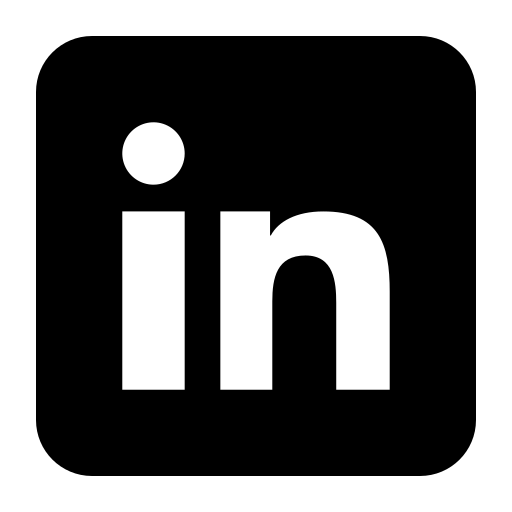
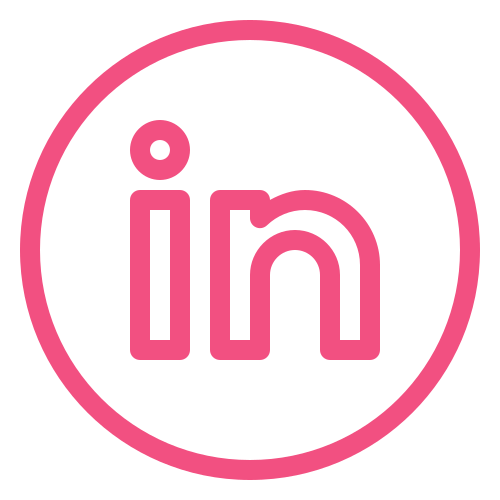
alterações no home

diff --git a/src/components/Home.module.css b/src/components/Home.module.css
@@ -3,26 +3,46 @@
 .main {
   display: flex;
   flex-wrap: wrap;
+  flex-direction: column;
+  height: 100vh;
+  overflow: hidden;
 }
 
 .homeDiv {
   display: flex;
-  flex-wrap: wrap;
-  text-align: center;
-  justify-content: space-around;
+  flex-direction: column;
   font-family: 'Sofia';
   background-color: rgba(0, 0, 0, 0.863);
   align-items: center;
-  height: 100vh;
-  width: 100%;
+  justify-content: center; /* Centralizar verticalmente */
+  flex: 1;
 }
 
-.txt {
+.img {
   display: flex;
   flex-wrap: wrap;
   text-align: center;
-  justify-content: space-around;
+  justify-content: center; /* Garantir que a imagem fique centralizada */
   align-items: center;
+  height: auto; /* Alterado para auto */
+  width: 20%; /* Ajuste para um valor fixo */
+  border-radius: 50%;
+  animation: moveUpDown 2s ease-in-out infinite;
+}
+
+@keyframes moveUpDown {
+  0% {
+    transform: translateY(0); /* Início do movimento */
+  }
+  50% {
+    transform: translateY(-10px); /* Meio da animação (subindo) */
+  }
+  100% {
+    transform: translateY(0); /* Fim da animação (retorna ao normal) */
+  }
+}
+
+.txt {
   font-size: 25px;
   background: -webkit-linear-gradient(left, #97d9d9, #ec55b7);
   background: -moz-linear-gradient(left, #97d9d9, #ec55b7);
@@ -31,46 +51,14 @@
   background: linear-gradient(to right, #97d9d9, #ec55b7);
   border-radius: 20px;
   padding: 5px;
+  margin-top: 20px; /* Espaçamento entre a imagem e o texto */
+  text-shadow: 0 0 10px #fff, 0 0 20px #ff00ff, 0 0 30px #ff00ff, 0 0 40px #ff00ff, 0 0 50px #ff00ff, 0 0 75px #ff00ff;
 }
 
-.img {
+.footer {
   display: flex;
   flex-wrap: wrap;
   text-align: center;
-  justify-content: space-around;
+  justify-content: center; /* Garantir que a imagem fique centralizada */
   align-items: center;
-  height: 47%;
-  width: 20%;
-  margin: 10%;
-  border-radius: 20px;
-}
-
-.div{
-  display: flex;
-  flex-wrap: wrap;
-}
-
-.imgLink {
-  height: 50px;
-  width: 50px;
-  margin: 10px;
-  border-radius: 100px;
-}
-
-.git{
-  display: flex;
-  flex-wrap: wrap;
-  justify-content: center;
-  align-items: center;
-  cursor: pointer;
-  width: 12vh;
-}
-
-.linkedin {
-  display: flex;
-  flex-wrap: wrap;
-  justify-content: center;
-  align-items: center;
-  cursor: pointer;
-  width: 11vh;
 }

diff --git a/src/pages/index.js b/src/pages/index.js
@@ -1,28 +1,26 @@
 import React from 'react';
 import Header from '../components/Header';
-import laptop from '../images/laptop.gif';
 import Image from 'next/image';
 import styleHome from '../components/Home.module.css';
-import caroline from '../images/caroline';
-// import Swal from 'sweetalert2';
 import Bot from '@/components/Bot';
 import Contact from '@/components/Contact';
+import caroline from '../images/caroline.costa.jpeg';
 
 export default function Home() {
     return (
       <main className={styleHome.main}>
+        <Header /> 
         <div className={styleHome.homeDiv}>
-          <Header />   
-          <div >
+          <Image src={caroline} alt='foto' className={styleHome.img}/>
+          <div>
             <p className={styleHome.txt}>Olá! Seja bem-vindo(a) ao meu Portfólio!</p>
-            <p className={styleHome.txt}>Sou Caroline Fernandes,</p>
-            <p className={styleHome.txt}>Desenvolvedora Web Full Stack.</p>
           </div>
-          <Image src={laptop} alt='gif-animado' className={styleHome.img}/>
-          <Image src={caroline} alt='gif-animado' className={styleHome.img}/>
         </div>
         <Bot />
-        <Contact />
+        <div className={styleHome.footer}>
+          <Contact />
+        </div>
+        
       </main>
     ) 
 }

diff --git a/src/components/Contact.js b/src/components/Contact.js
@@ -3,17 +3,17 @@ import React from 'react';
 import iconGit from '../images/icons8-github-64.png';
 import iconLinkedin from '../images/icons8-linkedin-64.png';
 import styleContact from '../components/Contact.module.css';
-import Header from '@/components/Header';
-import Bot from '@/components/Bot';
+import github from '../images/github.png';
+import linkedin from '../images/linkedin.png';
 
 function Contact() {
   return(
     <div className={styleContact.main}>
       <a href="https://github.com/carolinefcosta" >
-        <Image src={iconGit} alt='icon-linkedIn' />
+        <Image src={github} alt='icon-linkedIn' width={58}/>
       </a>
       <a href="https://www.linkedin.com/in/carolinefernandescosta/" className={styleContact.linkedin}>
-        <Image src={iconLinkedin} alt='icon-linkedIn' />
+        <Image src={linkedin} alt='icon-linkedIn' width={60}/>
       </a>
     </div>
   )

diff --git a/src/components/Header.module.css b/src/components/Header.module.css
@@ -1,19 +1,14 @@
 @import url('https://fonts.googleapis.com/css?family=Sofia');
 
 .main {
+  background-color: rgba(0, 0, 0, 0.863);
   display: flex;
-  justify-content: space-around;
+  justify-content: space-evenly;
   width: 100%;
   box-shadow: rgba(0, 0, 0, 0.1) 0px 20px 25px -5px, rgba(0, 0, 0, 0.04) 0px 10px 10px -5px;
   color: white;
   font-family: 'Sofia';
   text-shadow: 3px 3px 3px #ababab;
-  height: 80px;
-  background: -webkit-linear-gradient(left, #97d9d9, #ec55b7);
-  background: -moz-linear-gradient(left, #97d9d9, #ec55b7);
-  background: -ms-linear-gradient(left, #97d9d9, #ec55b7);
-  background: -o-linear-gradient(left, #97d9d9, #ec55b7);
-  background: linear-gradient(to right, #97d9d9, #ec55b7);
 }
 
 .h1 {
@@ -24,7 +19,6 @@
 .h3 {
   margin-top: 0;
   text-align: start;
-  /* text-align: center; */
 }
 
 .link {

diff --git a/src/components/Bot.js b/src/components/Bot.js
@@ -1,13 +1,13 @@
 import Image from 'next/image';
 import React from 'react';
-import iconW from '../images/whats.png';
+import whatsapp from '../images/whatsapp.png';
 
 function Bot() {
   return(
     <div>
       <section>
         <a href="http://api.whatsapp.com/send?1=pt_BR&phone=5584996145856" className="fixed bottom-5 sm:right-8 right-4 z-[999] cursor-pointer text-gray-900 text-4xl w-16 h-16 flex items-center justify-center rounded-full animate-bounce">
-          <Image src={iconW} alt='icon-whats' />
+          <Image src={whatsapp} alt='icon-whats' />
         </a>
       </section>
     </div>

diff --git a/src/components/Contact.module.css b/src/components/Contact.module.css
@@ -1,6 +1,7 @@
 .main {
   display: flex;
   justify-content: center;
-  margin-top: -120px;
-  margin-left: 220px;
+  overflow: hidden;
+  width: 100%;
+  background-color: rgba(0, 0, 0, 0.863);
 }
